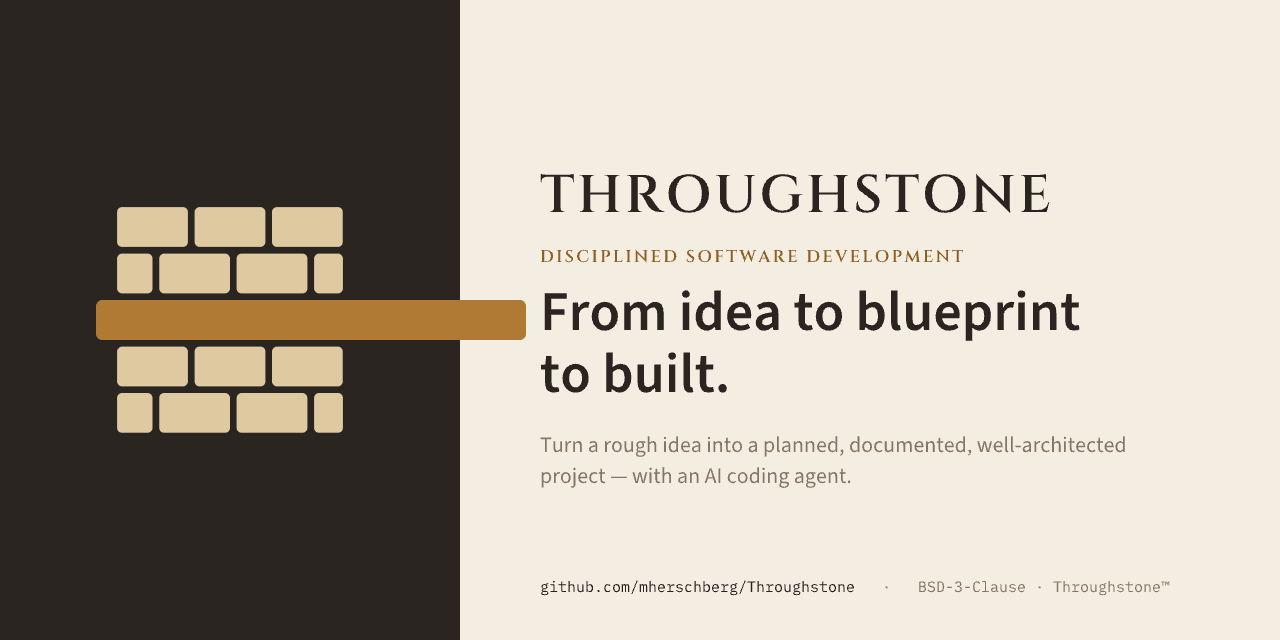
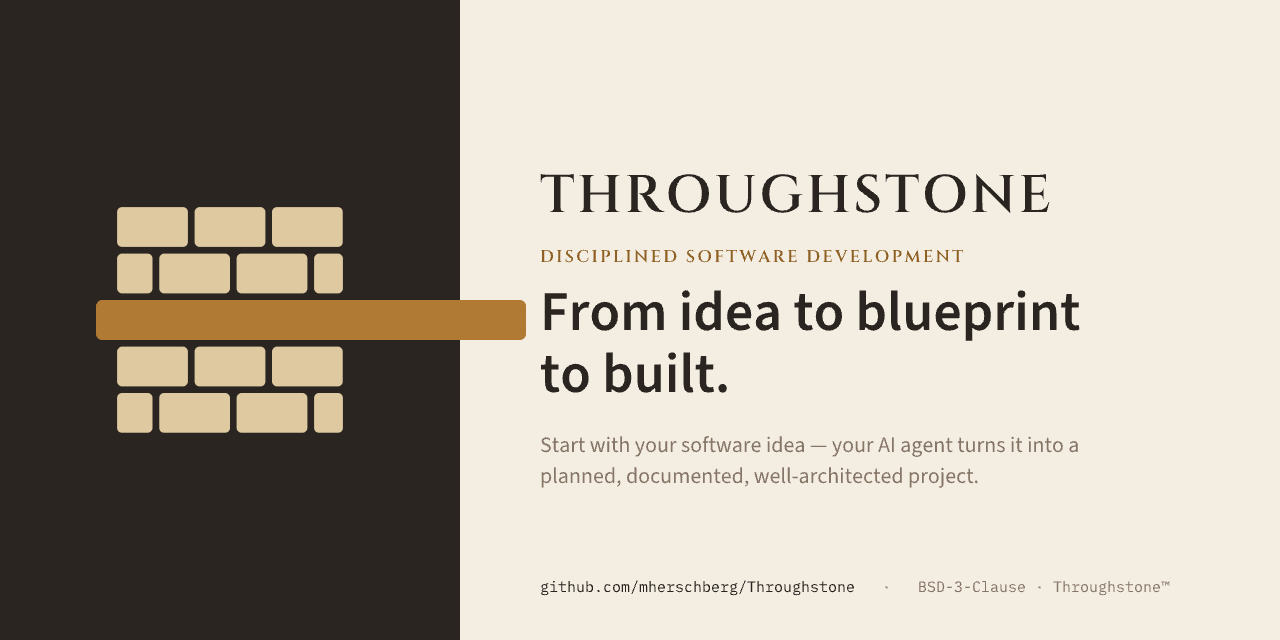
Align social card descriptor with the hero copy
Card now reads "Start with your software idea — your AI agent turns it
into a planned, documented, well-architected project." (was "Turn a
rough idea into..."), matching the landing-page hero. Regenerated SVG +
PNG and synced to brand/site/assets and docs/assets.

Changed region(s): [[0.4062, 0.6875, 0.875, 0.7812]]

diff --git a/brand/social/generate_social.py b/brand/social/generate_social.py
@@ -90,7 +90,7 @@ parts.append(text_path("DISCIPLINED SOFTWARE DEVELOPMENT", CINZEL, 17, X, 262, O
 parts.append(text_path("From idea to blueprint", SANS600, 56, X, 330, INK))
 parts.append(text_path("to built.", SANS600, 56, X, 392, INK))
 # descriptor, Source Sans 22, wrapped
-desc="Turn a rough idea into a planned, documented, well-architected project — with an AI coding agent."
+desc="Start with your software idea — your AI agent turns it into a planned, documented, well-architected project."
 lines=wrap(desc, SANS, 22, 600)
 y=452
 for ln in lines: